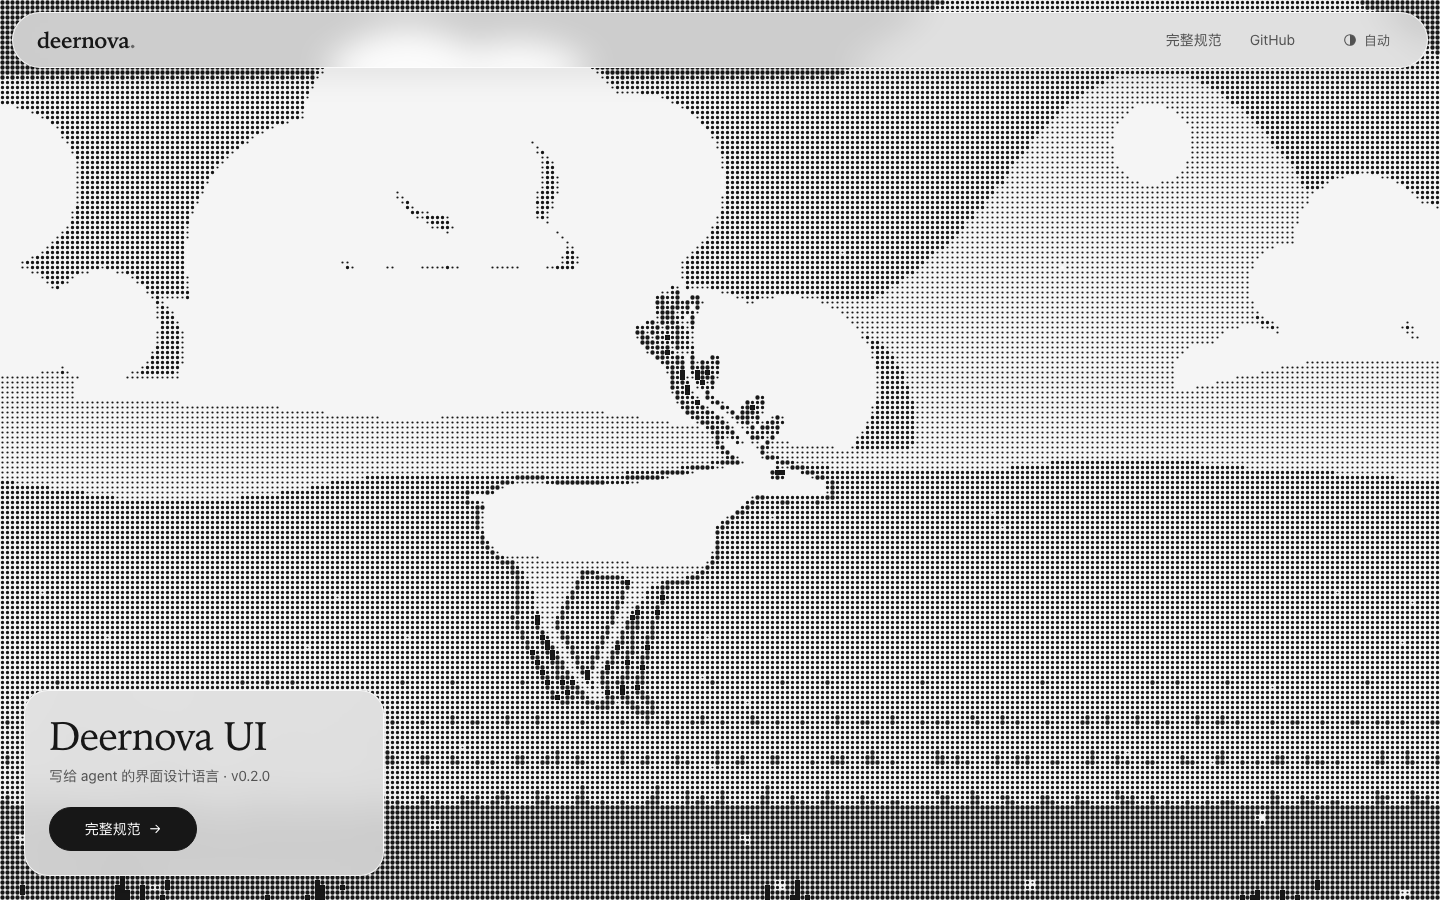
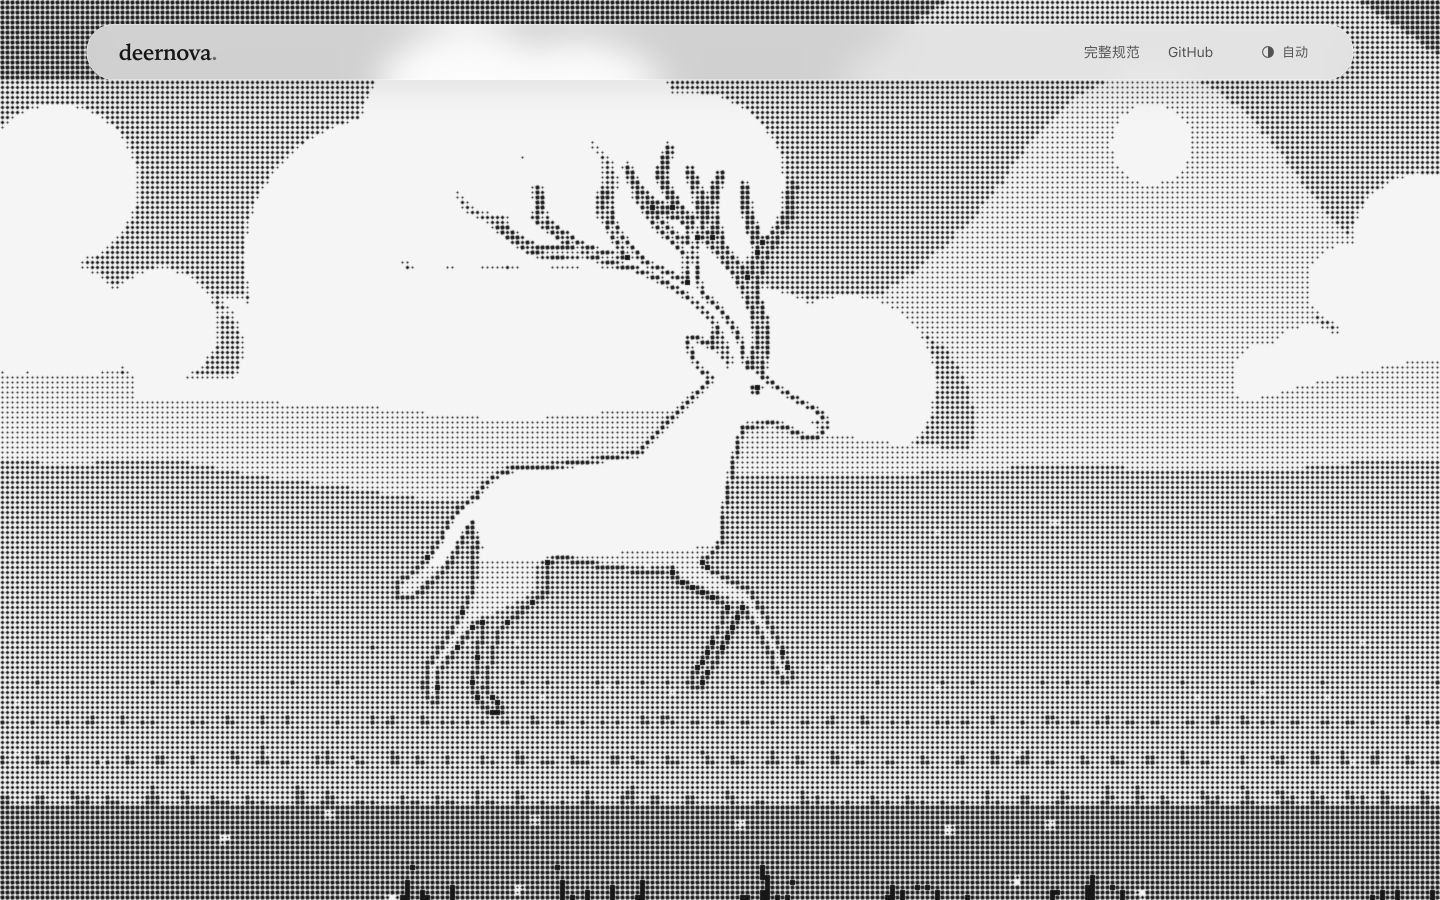
feat: refine milu silhouette and simplify homepage

diff --git a/apps/website/scripts/meadow/stag.js b/apps/website/scripts/meadow/stag.js
@@ -1,39 +1,41 @@
 import { TAU, DEG, clamp, mix, wrap, pulse, spline } from './math.js';
 
-// ---- The stag, in body lengths: x forward, y down, origin in the middle of the trunk ----
-// Proportions follow red deer; the stride follows Muybridge's 1887 plates of a galloping Virginia deer.
+// ---- The milu, in body lengths: x forward, y down, origin in the middle of the trunk ----
+// A long face, high neck, swept-back forked antlers and trailing tail give the
+// silhouette its identity. References: docs/plans/2026-11-02-homepage-milu-design.md.
 
 const TRUNK = [
-  [0.3, -0.27],
-  [0.15, -0.25, -0.1, -0.21, -0.28, -0.22],
-  [-0.4, -0.23, -0.5, -0.21, -0.55, -0.13],
-  [-0.6, -0.05, -0.58, 0.05, -0.52, 0.11],
-  [-0.48, 0.15, -0.4, 0.17, -0.33, 0.15],
-  [-0.2, 0.13, -0.05, 0.2, 0.12, 0.21],
-  [0.28, 0.22, 0.4, 0.22, 0.47, 0.14],
-  [0.53, 0.08, 0.54, -0.02, 0.5, -0.08],
-  [0.45, -0.18, 0.4, -0.25, 0.3, -0.27]
+  [0.34, -0.3],
+  [0.18, -0.34, -0.06, -0.27, -0.28, -0.28],
+  [-0.44, -0.3, -0.57, -0.24, -0.6, -0.1],
+  [-0.63, 0.02, -0.55, 0.14, -0.44, 0.16],
+  [-0.32, 0.17, -0.25, 0.12, -0.17, 0.14],
+  [0.02, 0.2, 0.23, 0.25, 0.4, 0.2],
+  [0.53, 0.17, 0.57, 0.06, 0.52, -0.09],
+  [0.48, -0.23, 0.44, -0.3, 0.34, -0.3]
 ];
 // The head, with the poll at the origin and x pointing down the muzzle.
 const HEAD = [
-  [-0.07, -0.05],
-  [-0.02, -0.09, 0.06, -0.095, 0.12, -0.075],
-  [0.2, -0.055, 0.28, -0.04, 0.33, -0.022],
-  [0.36, -0.012, 0.375, 0.02, 0.355, 0.04],
-  [0.33, 0.06, 0.26, 0.06, 0.18, 0.075],
-  [0.1, 0.09, 0.02, 0.1, -0.04, 0.07],
-  [-0.08, 0.04, -0.09, -0.02, -0.07, -0.05]
+  [-0.07, -0.07],
+  [-0.025, -0.13, 0.07, -0.13, 0.14, -0.09],
+  [0.23, -0.055, 0.32, -0.035, 0.4, -0.02],
+  [0.45, -0.01, 0.48, 0.025, 0.46, 0.065],
+  [0.43, 0.11, 0.36, 0.1, 0.3, 0.085],
+  [0.22, 0.065, 0.17, 0.125, 0.1, 0.14],
+  [0.025, 0.15, -0.07, 0.11, -0.085, 0.045],
+  [-0.1, 0.005, -0.1, -0.03, -0.07, -0.07]
 ];
-// Antlers as drawn when the head is at rest (muzzle 0.5 rad below level): a beam sweeping up and back,
-// brow, bez and trez tines forward, and a crown. Each entry: points, base width, tip width.
-const ANTLER_REST = -0.5;
+// Open forks grow backwards, rather than a dense row of upright tines. The
+// far antler is projected at a different angle so both crowns stay legible.
+// Each branch: points, base width, tip width.
+const ANTLER_REST = -0.35;
 const ANTLER = [
-  [[[0, 0], [-0.05, -0.2], [-0.16, -0.38], [-0.15, -0.56], [-0.1, -0.7], [-0.02, -0.79]], 0.052, 0.022],
-  [[[-0.01, -0.05], [0.07, -0.08], [0.15, -0.14]], 0.032, 0.012],
-  [[[-0.04, -0.14], [0.04, -0.18], [0.1, -0.26]], 0.028, 0.012],
-  [[[-0.15, -0.37], [-0.08, -0.43], [-0.03, -0.51]], 0.026, 0.01],
-  [[[-0.15, -0.56], [-0.22, -0.66], [-0.25, -0.76]], 0.024, 0.01],
-  [[[-0.1, -0.7], [-0.12, -0.79], [-0.1, -0.87]], 0.022, 0.01]
+  [[[0, 0], [-0.04, -0.18], [-0.19, -0.36], [-0.42, -0.5], [-0.68, -0.59], [-0.9, -0.76]], 0.058, 0.009],
+  [[[-0.18, -0.35], [-0.2, -0.56], [-0.14, -0.76], [-0.18, -0.94]], 0.042, 0.007],
+  [[[-0.2, -0.56], [-0.34, -0.7], [-0.43, -0.84]], 0.028, 0.007],
+  [[[-0.42, -0.5], [-0.55, -0.68], [-0.57, -0.86]], 0.032, 0.007],
+  [[[-0.68, -0.59], [-0.9, -0.6], [-1.07, -0.72]], 0.026, 0.007],
+  [[[-0.87, -0.73], [-0.89, -0.89]], 0.017, 0.006]
 ].map(([points, base, tip]) => {
   const curve = smooth(points);
   return [curve, curve.map((_, i) => mix(base, tip, i / (curve.length - 1)))];
@@ -41,8 +43,8 @@ const ANTLER = [
 
 // Legs are chains: hind = thigh, gaskin, cannon, pastern, hoof; fore = upper arm, forearm, cannon, pastern, hoof.
 // A pose gives the first four segments' angles from straight down, positive reaching forward; the hoof follows the pastern.
-const HIND = { root: [-0.36, -0.07], lengths: [0.3, 0.33, 0.3, 0.075, 0.05], widths: [0.24, 0.13, 0.07, 0.05, 0.046, 0.034] };
-const FORE = { root: [0.4, -0.06], lengths: [0.24, 0.3, 0.3, 0.075, 0.05], widths: [0.17, 0.11, 0.064, 0.05, 0.046, 0.034] };
+const HIND = { root: [-0.4, -0.02], lengths: [0.27, 0.29, 0.29, 0.075, 0.055], widths: [0.2, 0.115, 0.06, 0.036, 0.038, 0.03] };
+const FORE = { root: [0.39, -0.02], lengths: [0.26, 0.285, 0.29, 0.07, 0.055], widths: [0.16, 0.09, 0.05, 0.035, 0.038, 0.03] };
 // One key every eighth of a stride: touch down, load, push off, toe off, stretch out behind, fold, swing, reach.
 const GALLOP = {
   hind: [[0.75, -0.25, 0.45, 0.7], [0.55, -0.55, 0.2, 1], [0.25, -0.85, -0.25, 0.5], [-0.05, -1.1, -0.75, -0.3], [-0.2, -1.3, -1.1, -1], [0.2, -1.35, -0.35, -0.4], [0.65, -0.85, 0.35, 0.3], [0.85, -0.4, 0.6, 0.6]],
@@ -51,7 +53,7 @@ const GALLOP = {
   offsets: { hindFar: 0, hindNear: 0.1, foreFar: 0.42, foreNear: 0.52 }
 };
 const LEGS = ['hindFar', 'foreFar', 'hindNear', 'foreNear'];
-const NECK = { root: [0.36, -0.14], length: 0.36 };
+const NECK = { root: [0.34, -0.16], length: 0.51 };
 
 function smooth(points, steps = 4) {
   const out = [], n = points.length, at = i => points[clamp(i, 0, n - 1)];
@@ -89,7 +91,13 @@ export function pose(phase) {
   for (const key of LEGS) { const [x, y] = legs[key][5]; depth = Math.max(depth, x * Math.sin(pitch) + y * Math.cos(pitch)); }
   const air = 0.07 * pulse(phase, 0.86, 1.04);
   const swing = Math.sin(TAU * (phase - 0.2));
-  return { legs, pitch, air, lift: depth + 0.012 + air, neck: 0.52 + 0.06 * swing - pitch * 0.5, head: -0.12 - 0.05 * swing, ear: -2.7, tail: 3.2 + 0.15 * Math.sin(TAU * phase * 2) };
+  return {
+    legs, pitch, air, lift: depth + 0.012 + air,
+    neck: 0.94 + 0.035 * swing - pitch * 0.6,
+    head: -0.35 - 0.035 * swing,
+    ear: -2.65 + 0.06 * swing,
+    tail: Math.sin(TAU * (phase - 0.15))
+  };
 }
 
 function outline(g, points) {
@@ -137,21 +145,39 @@ function drawNeck(g, angle) {
   const [bx, by] = NECK.root, d = [Math.cos(angle), -Math.sin(angle)], n = [Math.sin(angle), Math.cos(angle)];
   const ex = bx + d[0] * NECK.length, ey = by + d[1] * NECK.length;
   g.beginPath();
-  g.moveTo(0.18, -0.25);
-  g.quadraticCurveTo(bx + d[0] * 0.19 - n[0] * 0.13, by + d[1] * 0.19 - n[1] * 0.13, ex - n[0] * 0.065, ey - n[1] * 0.065);
-  g.lineTo(ex + n[0] * 0.075, ey + n[1] * 0.075);
-  g.quadraticCurveTo(bx + d[0] * 0.15 + n[0] * 0.14, by + d[1] * 0.15 + n[1] * 0.14, 0.5, -0.04);
-  g.lineTo(0.3, -0.05);
+  g.moveTo(0.16, -0.29);
+  g.quadraticCurveTo(bx + d[0] * 0.22 - n[0] * 0.18, by + d[1] * 0.22 - n[1] * 0.18, ex - n[0] * 0.09, ey - n[1] * 0.09);
+  g.lineTo(ex + n[0] * 0.11, ey + n[1] * 0.11);
+  g.quadraticCurveTo(bx + d[0] * 0.22 + n[0] * 0.15, by + d[1] * 0.22 + n[1] * 0.15, 0.52, 0.12);
+  g.lineTo(0.28, 0.06);
   g.closePath();
   g.fill();
 }
 function drawEar(g, angle, dx) {
-  const bx = -0.02 + dx, by = -0.07;
+  g.save();
+  g.translate(-0.04 + dx, -0.055);
+  g.rotate(angle);
   g.beginPath();
-  g.ellipse(bx + Math.cos(angle) * 0.085, by + Math.sin(angle) * 0.085, 0.09, 0.034, angle, 0, TAU);
+  g.moveTo(0, -0.025);
+  g.quadraticCurveTo(0.1, -0.095, 0.245, 0);
+  g.quadraticCurveTo(0.12, 0.075, 0, 0.025);
+  g.closePath();
   g.fill();
+  g.restore();
 }
 function drawAntler(g) { for (const [points, widths] of ANTLER) tube(g, points, widths); }
+
+function drawTail(g, swing) {
+  const y = 0.16 + swing * 0.045;
+  g.beginPath();
+  g.moveTo(-0.56, -0.16);
+  g.bezierCurveTo(-0.73, -0.15, -0.77, y - 0.04, -0.94, y);
+  g.quadraticCurveTo(-1, y + 0.035, -0.96, y + 0.09);
+  g.quadraticCurveTo(-0.87, y + 0.08, -0.84, y + 0.02);
+  g.bezierCurveTo(-0.7, y - 0.03, -0.66, -0.08, -0.55, -0.1);
+  g.closePath();
+  g.fill();
+}
 
 export const GALLOP_RATE = GALLOP.rate;
 
@@ -171,7 +197,7 @@ export function createStagRenderer(f) {
   function drawStag(p, x, y, size, { cell, SS }) {
     const body = new DOMMatrix().scale(SS / cell).translate(x, y).scale(size).rotate(p.pitch * DEG);
     const head = body.translate(NECK.root[0] + Math.cos(p.neck) * NECK.length, NECK.root[1] - Math.sin(p.neck) * NECK.length).rotate(-p.head * DEG);
-    const antler = head.translate(0, -0.08).rotate(ANTLER_REST * DEG);
+    const antler = head.translate(0.015, -0.1).rotate(ANTLER_REST * DEG);
     for (const g of [far, near, mono]) {
       g.setTransform(1, 0, 0, 1, 0, 0);
       g.globalCompositeOperation = 'source-over';
@@ -183,17 +209,15 @@ export function createStagRenderer(f) {
     far.setTransform(body);
     drawLeg(far, p.legs.hindFar, HIND, true);
     drawLeg(far, p.legs.foreFar, FORE, false);
-    far.setTransform(antler.translate(-0.06, 0.01));
+    far.setTransform(antler.translate(0.075, 0.015).rotate(24).scale(0.84, 0.94));
     drawAntler(far);
     far.setTransform(head);
-    drawEar(far, p.ear + 0.2, -0.04);
+    drawEar(far, p.ear + 0.6, 0.015);
 
     near.setTransform(body);
+    drawTail(near, p.tail);
     outline(near, TRUNK);
     drawNeck(near, p.neck);
-    near.beginPath();
-    near.ellipse(-0.54 + Math.cos(p.tail) * 0.05, -0.13 + Math.sin(p.tail) * 0.05, 0.06, 0.028, p.tail, 0, TAU);
-    near.fill();
     drawLeg(near, p.legs.hindNear, HIND, true);
     drawLeg(near, p.legs.foreNear, FORE, false);
     near.setTransform(head);
@@ -222,9 +246,9 @@ export function createStagRenderer(f) {
     near.fillRect(-1.5, -0.05, 3, 1.3);
     near.setTransform(head);
     near.fillStyle = '#000';
-    near.beginPath(); near.ellipse(0.1, -0.028, 0.03, 0.024, -0.3, 0, TAU); near.fill();
+    near.beginPath(); near.ellipse(0.115, -0.035, 0.024, 0.018, -0.25, 0, TAU); near.fill();
     near.globalAlpha = 0.5;
-    near.beginPath(); near.arc(0.345, 0.005, 0.016, 0, TAU); near.fill();
+    near.beginPath(); near.ellipse(0.425, 0.03, 0.022, 0.013, 0.5, 0, TAU); near.fill();
     near.globalAlpha = 1;
 
     f.save();

diff --git a/apps/website/styles/home.css b/apps/website/styles/home.css
@@ -1,4 +1,4 @@
-/* Home: the stag's run fills the window. The masthead and one card float over it, so they sit on glass.
+/* Home: the milu's run fills the window, with one quiet glass masthead.
    The picture is printed in halftone: ink dots on paper in the light theme, light dots on black in the dark one. */
 .home { overflow: hidden; background: var(--canvas); }
 .stage { position: fixed; inset: 0; }
@@ -10,20 +10,31 @@
 }
 .meadow canvas { position: absolute; inset: 0; width: 100%; height: 100%; }
 
-.masthead-float { position: fixed; top: var(--space-3); left: var(--space-3); right: var(--space-3); border: var(--stroke-hairline) solid var(--glass-stroke); border-radius: var(--radius-full); background: var(--glass-fill); box-shadow: 0 8px 32px rgb(0 0 0 / 0.08); }
+.masthead-float {
+  position: fixed;
+  top: var(--space-6);
+  left: clamp(32px, 6vw, 96px);
+  right: clamp(32px, 6vw, 96px);
+  padding-inline: var(--space-8);
+  border: var(--stroke-hairline) solid var(--glass-stroke);
+  border-radius: var(--radius-full);
+  background: var(--glass-fill);
+  box-shadow: 0 8px 32px rgb(0 0 0 / 0.08);
+}
 .masthead-float .theme-toggle { border-color: transparent; }
 
-.home-card { position: fixed; left: var(--space-6); bottom: var(--space-6); display: grid; justify-items: start; gap: var(--space-2); width: min(360px, calc(100vw - 2 * var(--space-6))); padding: var(--space-6); border: var(--stroke-hairline) solid var(--glass-stroke); border-radius: var(--radius-xl); background: var(--glass-fill); box-shadow: 0 8px 32px rgb(0 0 0 / 0.08); -webkit-backdrop-filter: blur(20px) saturate(1.5); backdrop-filter: blur(20px) saturate(1.5); }
-.home-card h1 { font-size: 40px; font-weight: 500; line-height: 1.05; letter-spacing: -0.02em; }
-.home-card p { font-size: 14px; color: var(--ink-secondary); }
-.home-card .pill { margin-top: var(--space-3); }
-
 @media (prefers-reduced-transparency: reduce) {
-  .masthead-float, .home-card { background: var(--surface-raised); -webkit-backdrop-filter: none; backdrop-filter: none; }
+  .masthead-float { background: var(--surface-raised); -webkit-backdrop-filter: none; backdrop-filter: none; }
 }
 
 @media (max-width: 760px) {
-  .masthead-float { top: var(--space-2); left: var(--space-2); right: var(--space-2); }
-  .home-card { left: var(--space-3); right: var(--space-3); bottom: var(--space-3); width: auto; padding: var(--space-4) var(--space-4) var(--space-4) var(--space-6); }
-  .home-card h1 { font-size: 30px; }
+  .masthead-float {
+    top: var(--space-4);
+    left: var(--space-4);
+    right: var(--space-4);
+    gap: var(--space-2);
+    padding-inline: var(--space-3);
+  }
+  .masthead-float .wordmark { font-size: 20px; }
+  .masthead-float .masthead-nav a { padding-inline: var(--space-2); font-size: 12px; }
 }

diff --git a/apps/website/index.html b/apps/website/index.html
@@ -23,15 +23,11 @@
   </header>
 
   <main id="main" class="stage">
+    <h1 class="sr-only">Deernova UI</h1>
     <div class="meadow" data-meadow>
       <canvas aria-hidden="true"></canvas>
-      <p class="sr-only">一只白色的雄鹿一直在奔跑：穿过积云下的草原，穿过阳光照进来的森林，跑上银河下的山脊，再回到清晨的草原。</p>
+      <p class="sr-only">一只白色的麋鹿舒展着鹿角奔跑：穿过积云下的草原，穿过阳光照进来的森林，跑上银河下的山脊，再回到清晨的草原。</p>
     </div>
-    <section class="home-card" aria-labelledby="home-title">
-      <h1 id="home-title">Deernova UI</h1>
-      <p>写给 agent 的界面设计语言 · v{{version}}</p>
-      <a class="pill pill-primary" href="guide.html">完整规范 <span aria-hidden="true">→</span></a>
-    </section>
   </main>
 </body>
 </html>

diff --git a/reviews/verification.md b/reviews/verification.md
@@ -1,13 +1,14 @@
 # 当前验收状态
 
-更新于 2026-11-02。这里记录当前源码的验证结果；之前的版本和首页迭代移至 [历史记录](history.md)。
+更新于 2026-11-02。本次在 `codex/refine-homepage-deer` 调整首页；之前的仓库整理与页面迭代见 [历史记录](history.md)。
 
 ## 当前实现
 
-- 规范的唯一来源是 `skills/deernova-style/`；官网和 npm 安装包从它派生。
-- 首页是白鹿持续奔跑的 30 秒循环：草原 → 森林 → 星空 → 草原。`guide.html` 展示完整规范。
-- 动画入口只处理浏览器事件；时间轴、鹿、场景和画面渲染独立维护。快速暂停和恢复时会取消旧帧，避免同时运行两条动画循环。
-- 安装器按参数解析、目标定位、完整性检查和安全替换分开组织；安装目录、内容哈希算法、修改保护、备份和回滚约定保持兼容。
+- 首页仍是 30 秒草原 → 森林 → 星空 → 草原的全屏循环，保留黑白网点与字符转场。
+- 参考真实麋鹿的长脸、后掠分叉鹿角与长尾重绘轮廓，同时调整颈部、耳朵、躯干和四肢比例。参考来源与设计决定见 [设计记录](../docs/plans/2026-11-02-homepage-milu-design.md)。
+- 删除底部介绍卡片，保留供辅助技术读取的页面标题和动画描述；完整规范入口留在顶部导航。
+- 桌面导航左右留白为 `clamp(32px, 6vw, 96px)`，顶部 24px；手机左右与顶部均为 16px。
+- 规范源文件和安装器没有改动；本次仅涉及官网、相关文档与截图。
 
 ## 本次自动验证
 
@@ -18,20 +19,20 @@
 - 构建：安装包与规范源文件一致；构建不修改源文件；网站修改不改变 skill 哈希；规范修改同步到网站；页面锚点、资源和 JavaScript 模块依赖可解析。
 - 安装器：干净安装和更新、修改保护、强制更新备份、现有项目文件保留、三种 agent 目录、未安装和非托管目录、非法参数、符号链接目标保护。
 - 动画：场景交接、循环边界、步态连续性、长帧限幅、绘制频率、静止帧、暂停期间不计时、快速暂停恢复只有一个待执行帧。
-- `npm run pack`：生成 19 个文件的安装包，无官网文件。解包后使用实际 CLI 验证旧安装的识别和更新；旧 CLI 也能验证更新后的完整性。修改后的安装拒绝覆盖，强制更新保留原文件备份。
+- `git diff --check`：通过。
 
 ## 本次浏览器验证
 
-Headless Chrome，对照整理前的 `62ce7cc` 构建与本次构建：
+在 Codex 内置浏览器访问本地构建：
 
-- 19 组 Canvas 输出逐字节一致：桌面 12 个时刻（含场景交接）、深色 2 个时刻、375 px 手机 3 个时刻、原始灰度转场 1 个、减少动态效果模式 1 个。像素密度均为 2 倍。
-- 实时播放会推进画面；主题切换会重绘；调整为手机宽度后无横向溢出；规范目录跳转正常。
-- 未发现 JavaScript 异常或资源加载失败。
-- 现有截图继续适用：[草原](home-desktop.png)、[星空](home-night.png)、[规范页](guide-desktop.png)。
+- 检查草原、森林、星空与字符转场，以及不同奔跑姿态；鹿的头部与鹿角没有被画布裁切。森林前景树干仍会短暂遮挡动物。
+- 检查 320、375、768、1440px 宽度：没有横向溢出，导航项均位于容器内。
+- 检查自动、浅色与深色外观切换，完成后恢复自动；顶部“完整规范”链接可到达规范页。
+- 浏览器没有记录错误或警告。
+- 更新截图：[桌面草原](home-desktop.png)（1440×900，t=0.15）、[桌面星空](home-night.png)（1440×900，t=24.5）、[手机星空](home-mobile.png)（375×812，t=24.5）。
 
 ## 验证边界与发布
 
-- 浏览器中的减少动态效果使用媒体偏好模拟；尚未验证系统设置切换、降低透明度、Safari、Firefox 和真实设备。
-- SwiftUI 示例没有在本仓库编译或在设备上验证。
-- 本次检查画面一致性和播放行为，没有重新做性能基准。
-- 源码版本号仍为 `0.2.0`；本次没有发布 npm，也没有查询线上最新版本。历史发布结果见 [历史记录](history.md)。发布当前规范或安装器前，需要升级版本并执行发布流程。
+- 本次没有重新验证系统减少动态效果、降低透明度、Safari、Firefox 和真实设备。
+- 本次检查造型、布局和页面操作，没有重新做性能基准；先前的像素一致性对照仅适用于历史重构提交。
+- 源码版本号仍为 `0.2.0`；本次没有发布 npm。

diff --git a/reviews/history.md b/reviews/history.md
@@ -89,3 +89,43 @@ The intended product is a design reference skill installed into a specified repo
 - `npm test`: 9 tests pass.
 - Not verified: Safari and Firefox, real devices, OS-level reduced motion (the still frame is t = 24.5, the night ridge).
 - Screenshots: reviews/home-desktop.png (meadow), reviews/home-night.png (night ridge), reviews/guide-desktop.png.
+
+## 2026-11-02 仓库整理（2e41e1c）
+
+这份验收对应麋鹿造型调整之前的提交；其中的像素一致性结论不适用于后续视觉改动。
+
+更新于 2026-11-02。这里记录当前源码的验证结果；之前的版本和首页迭代移至 [历史记录](history.md)。
+
+### 当前实现
+
+- 规范的唯一来源是 `skills/deernova-style/`；官网和 npm 安装包从它派生。
+- 首页是白鹿持续奔跑的 30 秒循环：草原 → 森林 → 星空 → 草原。`guide.html` 展示完整规范。
+- 动画入口只处理浏览器事件；时间轴、鹿、场景和画面渲染独立维护。快速暂停和恢复时会取消旧帧，避免同时运行两条动画循环。
+- 安装器按参数解析、目标定位、完整性检查和安全替换分开组织；安装目录、内容哈希算法、修改保护、备份和回滚约定保持兼容。
+
+### 本次自动验证
+
+环境：macOS，Node.js 24.13.0，npm 11.6.2。
+
+- `npm test`：构建成功，19 项测试通过。
+- 规范：入口元数据、内部链接、素材路径、文件范围、生成变量同步，以及深浅主题的文字和控件对比度。
+- 构建：安装包与规范源文件一致；构建不修改源文件；网站修改不改变 skill 哈希；规范修改同步到网站；页面锚点、资源和 JavaScript 模块依赖可解析。
+- 安装器：干净安装和更新、修改保护、强制更新备份、现有项目文件保留、三种 agent 目录、未安装和非托管目录、非法参数、符号链接目标保护。
+- 动画：场景交接、循环边界、步态连续性、长帧限幅、绘制频率、静止帧、暂停期间不计时、快速暂停恢复只有一个待执行帧。
+- `npm run pack`：生成 19 个文件的安装包，无官网文件。解包后使用实际 CLI 验证旧安装的识别和更新；旧 CLI 也能验证更新后的完整性。修改后的安装拒绝覆盖，强制更新保留原文件备份。
+
+### 本次浏览器验证
+
+Headless Chrome，对照整理前的 `62ce7cc` 构建与本次构建：
+
+- 19 组 Canvas 输出逐字节一致：桌面 12 个时刻（含场景交接）、深色 2 个时刻、375 px 手机 3 个时刻、原始灰度转场 1 个、减少动态效果模式 1 个。像素密度均为 2 倍。
+- 实时播放会推进画面；主题切换会重绘；调整为手机宽度后无横向溢出；规范目录跳转正常。
+- 未发现 JavaScript 异常或资源加载失败。
+- 现有截图继续适用：[草原](home-desktop.png)、[星空](home-night.png)、[规范页](guide-desktop.png)。
+
+### 验证边界与发布
+
+- 浏览器中的减少动态效果使用媒体偏好模拟；尚未验证系统设置切换、降低透明度、Safari、Firefox 和真实设备。
+- SwiftUI 示例没有在本仓库编译或在设备上验证。
+- 本次检查画面一致性和播放行为，没有重新做性能基准。
+- 源码版本号仍为 `0.2.0`；本次没有发布 npm，也没有查询线上最新版本。历史发布结果见 [历史记录](history.md)。发布当前规范或安装器前，需要升级版本并执行发布流程。

diff --git a/docs/plans/2026-11-02-homepage-milu-design.md b/docs/plans/2026-11-02-homepage-milu-design.md
@@ -1,0 +1,31 @@
+# 首页麋鹿与导航调整
+
+## 目标
+
+让麋鹿成为首页的视觉中心：改善动物轮廓，移除底部介绍卡片，增加顶部导航左右留白。在 `codex/refine-homepage-deer` 分支完成。
+
+## 造型依据
+
+- [法国国家自然历史博物馆：Père David’s deer](https://www.mnhn.fr/en/pere-david-s-deer)：长脸、后掠鹿角和长尾等特征。
+- [Lincoln Park Zoo：Père David’s Deer](https://www.lpzoo.org/animals/pere-davids-deer/)：[头颈和鹿角照片](https://www.lpzoo.org/wp-content/uploads/2022/12/davidtrial.png)。
+- [Wikimedia Commons：Elaphurus davidianus 001](https://commons.wikimedia.org/wiki/File:Elaphurus_davidianus_001.jpg)：身体、四肢与长尾的比例参考。
+
+照片仅作观察参考；页面中的动物仍由 Canvas 路径绘制，不引入照片素材。
+
+## 设计决定
+
+- 头部加长，颈部抬高，肩胸和腹线用连续曲线连接。腿部调整长度与粗细，保留现有周期性的奔跑骨架。
+- 鹿角向后展开，分叉之间留出负空间。两侧鹿角用不同的投影角度区分，避免重合成一根竖直的轮廓。
+- 耳朵改为尖端收拢的叶形，尾巴加长并随步态轻摆。
+- 保留全屏网点画面与字符转场，首页只留下顶部导航。页面标题保留为供辅助技术读取的隐藏标题。
+- 桌面导航左右留白为 `clamp(32px, 6vw, 96px)`，顶部 24px，内部左右 32px；手机两侧与顶部均为 16px，压缩导航项间距以兼容 320px 宽度。
+
+## 沿用的视觉基础
+
+- 纸面 `#f5f5f5`、墨色 `#171717`；深色背景 `#101010`、浅色网点 `#e6e6e6`；动物离屏绘制使用白色 `#ffffff`。
+- 品牌字标沿用系统衬线字体，导航沿用系统无衬线，转场字符沿用等宽字体。
+- 30 秒草原／森林／星空顺序、主题切换和减少动态效果处理沿用现有实现。
+
+## 验收
+
+运行现有构建和测试；检查草原、森林、星空及奔跑中的多个姿态，检查深浅主题；在 320、375、768、1440px 宽度检查导航与画面。当前结果与截图见 [验收记录](../../reviews/verification.md)。

diff --git a/ARCHITECTURE.md b/ARCHITECTURE.md
@@ -19,7 +19,7 @@ skills/deernova-style/          skill 本体，规范的唯一来源（直接提
     tokens.css                  CSS 变量（由 tokens.json 生成）
     screens/                    Mac 窗口、iPhone 页面、iOS 按钮尺寸的效果截图，各有浅色和深色
 apps/website/                   官网
-  index.html                    首页：满屏动画，白鹿依次跑过草原、森林、星空（scripts/meadow.js），左下角一张入口卡片
+  index.html                    首页：满屏麋鹿动画，依次跑过草原、森林、星空；顶部保留玻璃导航
   guide.html                    完整规范页：头部是标题、打字行和三个按钮，下面把 skill 的 Markdown 按阅读顺序排成一页
   styles/                       网站自己的样式
   scripts/site.js               主题、复制命令、规范目录和打字效果
